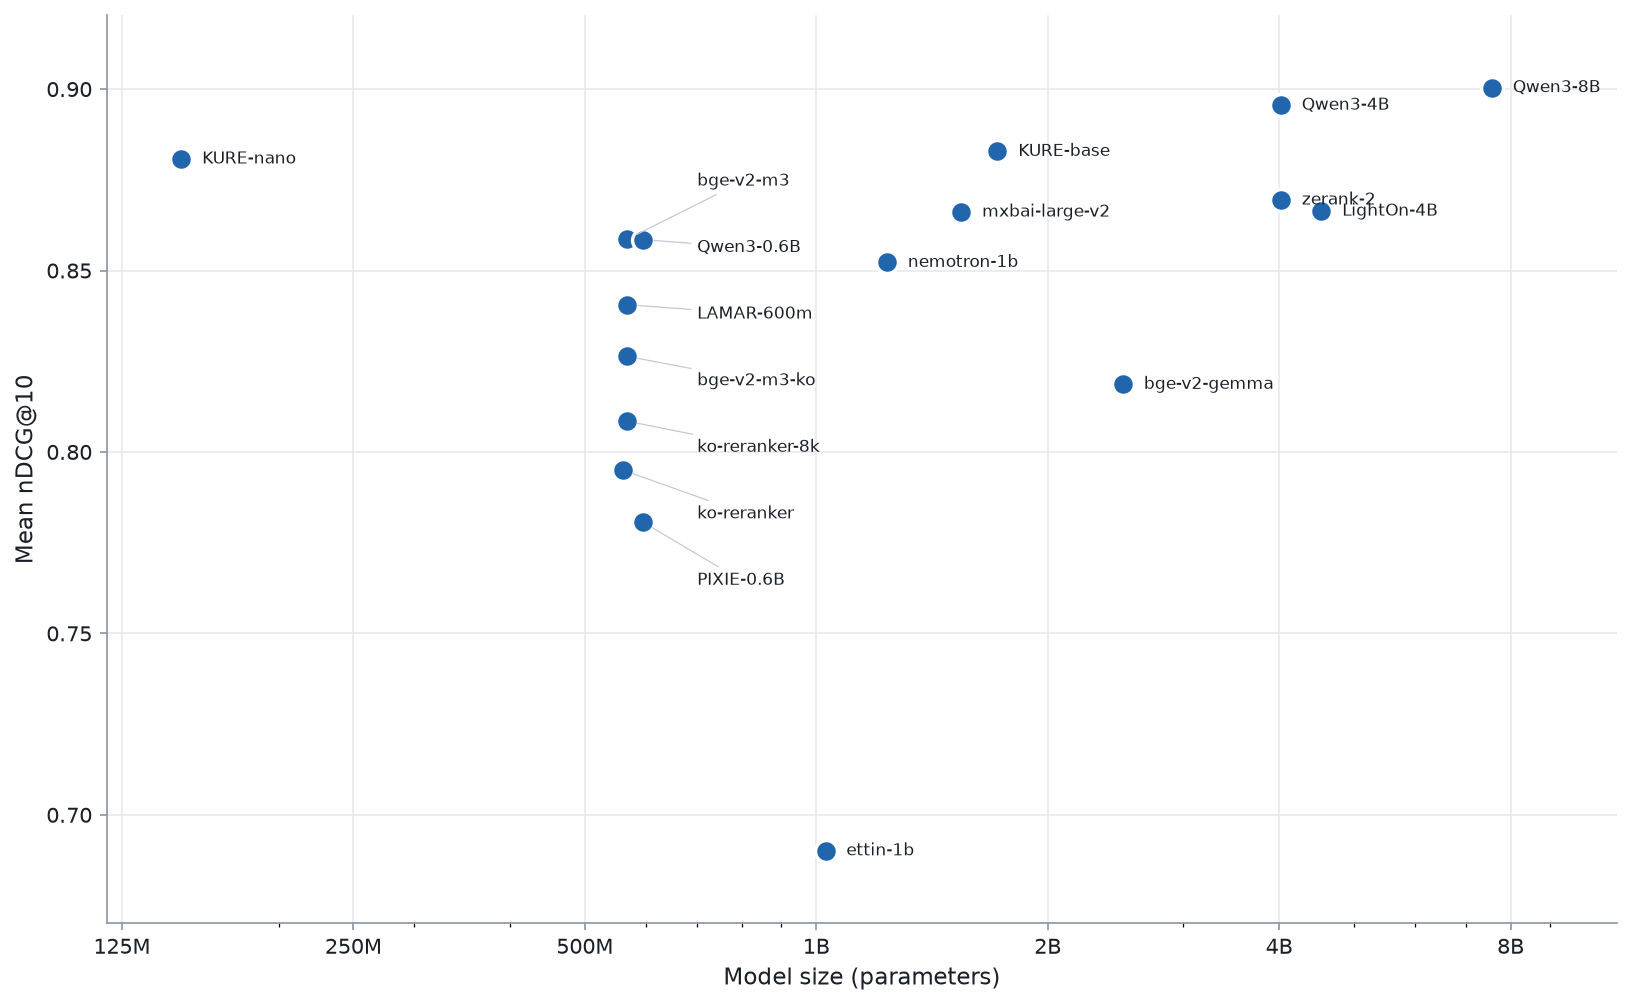
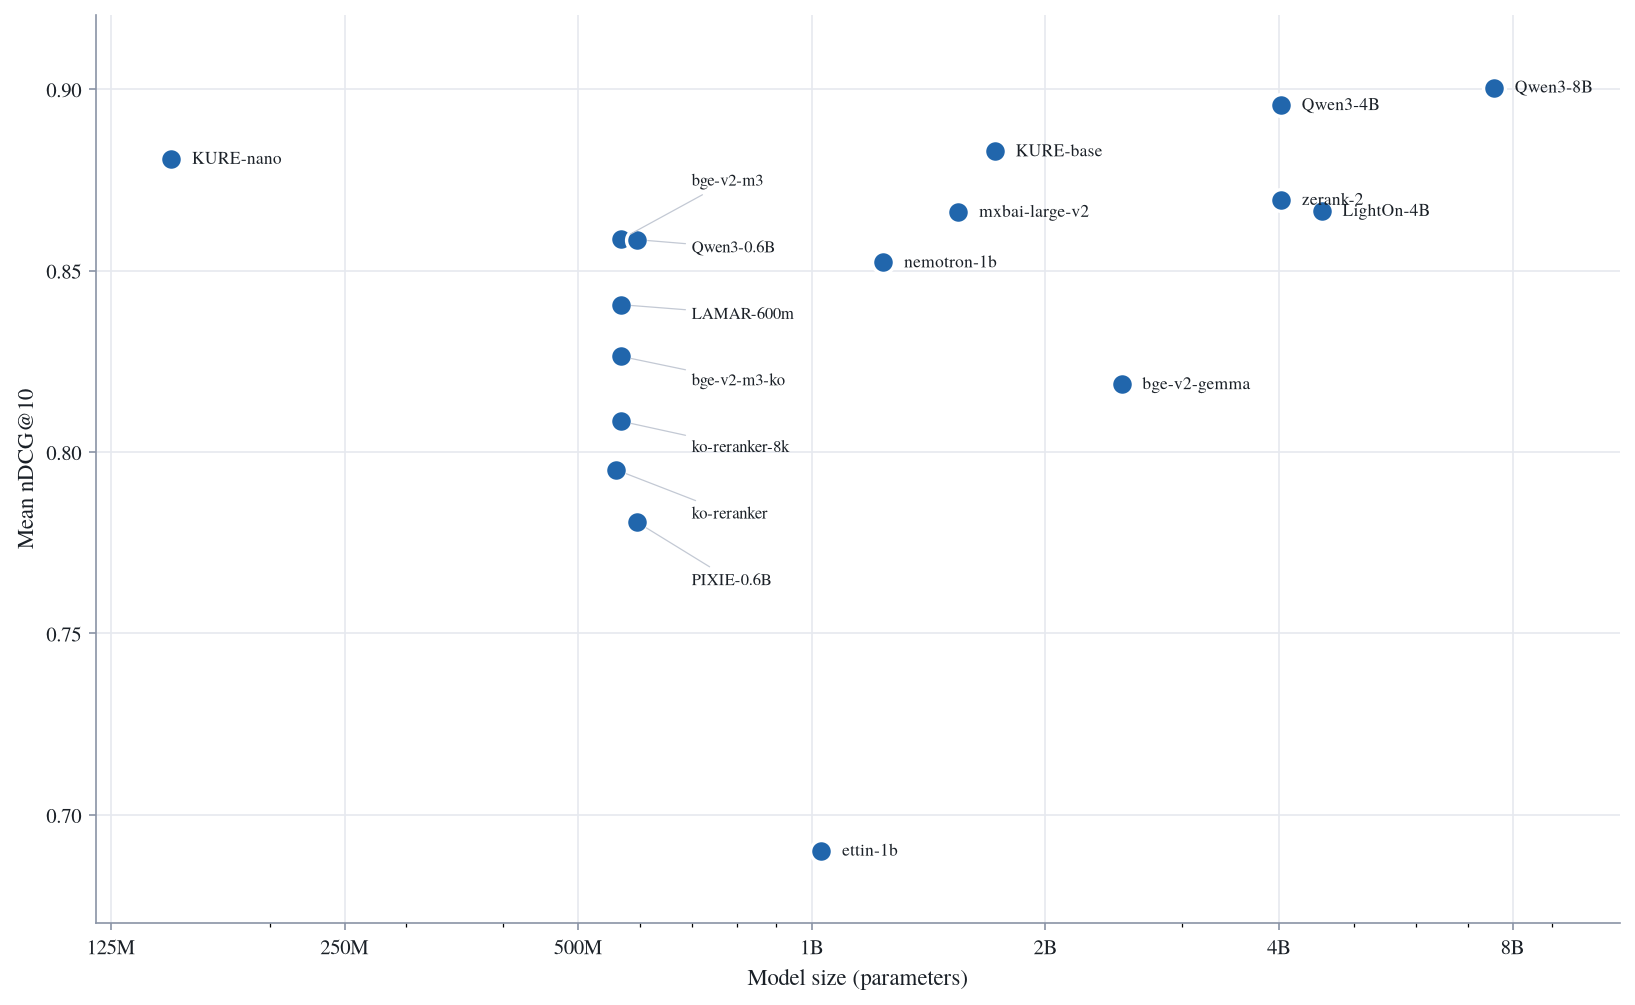
feat(plot): add a mean-PPS vs. nDCG@10 scatter and render both plots in Times
eval/plot_pps_vs_ndcg.py plots 9-subset mean PPS (log x) against 9-subset mean
nDCG@10. Each label shows the model's short name plus its parameter count in
small grey text, and the dot color marks the size bin (<0.5B / 0.5-1B / 1-3B /
>=3B) from a low-saturation palette that stays distinguishable under CVD.

Both plots now use a Times New Roman family font, falling back to TeX Gyre
Termes / Nimbus Roman where Times is not installed. mean_pps takes an optional
task list so the plot can average over all 9 subsets while the leaderboard keeps
its MLDR-excluded 8-task default.

diff --git a/eval/plot_pps_vs_ndcg.py b/eval/plot_pps_vs_ndcg.py
@@ -1,0 +1,140 @@
+"""추론 처리량(9-subset mean PPS) vs 성능(공식 MTEB(kor, v2) 9-subset mean NDCG@10) 산점도.
+
+- x축: 9개 공식 subset 평균 PPS (log scale)
+- y축: 9개 공식 subset 평균 NDCG@10 (9개 전부 완료한 모델만 → jina-reranker-v3/v3.5 자동 제외)
+- 점 색: 모델 크기 구간(<0.5B / 0.5–1B / 1–3B / ≥3B), 라벨: 축약명 + 작은 글씨로 파라미터 수(B, 소수 첫째 자리)
+
+matplotlib 은 코어 의존성이 아니므로 임시 주입으로 실행:
+  uv run --with matplotlib python eval/plot_pps_vs_ndcg.py
+산출물: assets/pps_vs_ndcg9.png
+"""
+from pathlib import Path
+
+import matplotlib
+matplotlib.use("Agg")
+import matplotlib.pyplot as plt
+from matplotlib.ticker import FixedLocator, FixedFormatter, NullFormatter
+
+from stage2_results import collect, mean_pps, _mean_over, MODEL_SIZES, TASKS
+
+V2_ROOT = Path(__file__).resolve().parents[1]
+OUT = V2_ROOT / "assets" / "pps_vs_ndcg9.png"
+
+INK = "#1a2027"
+MUTED = "#8a94a6"
+# Times New Roman 계열 — 미설치 환경은 metric 호환 대체 폰트(TeX Gyre Termes, Nimbus Roman) 로 fallback.
+TIMES = ["Times New Roman", "TeX Gyre Termes", "Nimbus Roman", "STIXGeneral"]
+
+# 모델 크기 구간별 색 (상한 B, 범례명, 색). 저채도 4색, all-pairs CVD·일반 시각 구분 검증 통과.
+SIZE_BINS = [
+    (0.5, "< 0.5B", "#b8646e"),
+    (1.0, "0.5–1B", "#6f9fc2"),
+    (3.0, "1–3B", "#d6a55c"),
+    (float("inf"), "≥ 3B", "#4d4a7a"),
+]
+
+# 라벨용 축약명 (충돌·오버플로 완화). 없으면 basename.
+SHORT = {
+    "tomaarsen/Qwen3-Reranker-8B-seq-cls": "Qwen3-8B",
+    "tomaarsen/Qwen3-Reranker-4B-seq-cls": "Qwen3-4B",
+    "tomaarsen/Qwen3-Reranker-0.6B-seq-cls": "Qwen3-0.6B",
+    "zeroentropy/zerank-2-reranker": "zerank-2",
+    "lightonai/LightOn-rerank-PW-4B": "LightOn-4B",
+    "mixedbread-ai/mxbai-rerank-large-v2": "mxbai-large-v2",
+    "BAAI/bge-reranker-v2-m3": "bge-v2-m3",
+    "nvidia/llama-nemotron-rerank-1b-v2": "nemotron-1b",
+    "nlpai-lab/LAMAR-600m": "LAMAR-600m",
+    "dragonkue/bge-reranker-v2-m3-ko": "bge-v2-m3-ko",
+    "BAAI/bge-reranker-v2-gemma": "bge-v2-gemma",
+    "upskyy/ko-reranker-8k": "ko-reranker-8k",
+    "Dongjin-kr/ko-reranker": "ko-reranker",
+    "telepix/PIXIE-Spell-Reranker-Preview-0.6B": "PIXIE-0.6B",
+    "cross-encoder/ettin-reranker-1b-v1": "ettin-1b",
+    "nlpai-lab/KURE-Reranker-nano": "KURE-nano",
+    "nlpai-lab/KURE-Reranker-base": "KURE-base",
+}
+
+# 점이 겹치는 모델의 라벨 오프셋(points). 없으면 점 오른쪽. dx<0 이면 점 왼쪽에 우측 정렬.
+OFFSET = {
+    "Qwen3-8B": (10, 5),
+    "mxbai-large-v2": (10, 6),
+    "LightOn-4B": (10, -5),
+    "Qwen3-0.6B": (10, 5),
+    "PIXIE-0.6B": (10, -5),
+    "bge-v2-m3": (-10, 0),
+    "LAMAR-600m": (10, 0),
+    "bge-v2-m3-ko": (-10, 0),
+    "ko-reranker-8k": (-10, 0),
+}
+
+
+def size_color(billions):
+    return next(color for upper, _, color in SIZE_BINS if billions < upper)
+
+
+def label(ax, x, y, name, size, dx, dy):
+    """'name (size)' — size 는 작고 흐린 글씨. dx<0 이면 점 왼쪽에 우측 정렬."""
+    left = dx < 0
+    name_style = {"fontsize": 10, "color": INK}
+    size_style = {"fontsize": 8, "color": MUTED}
+    first_text, first_style = (f"({size})", size_style) if left else (name, name_style)
+    second_text, second_style = (name, name_style) if left else (f"({size})", size_style)
+    first = ax.annotate(first_text, (x, y), textcoords="offset points", xytext=(dx, dy),
+                        ha="right" if left else "left", va="center", **first_style)
+    ax.annotate(second_text, xy=(0 if left else 1, 0), xycoords=first,
+                textcoords="offset points", xytext=(-3 if left else 3, 0),
+                ha="right" if left else "left", va="bottom", **second_style)
+
+
+def main():
+    data = collect()
+    pts = []
+    for model in data:
+        r = _mean_over(data, model, TASKS)
+        pps = mean_pps(data, model, TASKS)
+        if r and pps is not None:
+            pts.append((pps, r[2], model))
+
+    plt.rcParams.update({"font.family": "serif", "font.serif": TIMES, "mathtext.fontset": "stix"})
+    fig, ax = plt.subplots(figsize=(11, 6.8), dpi=150)
+    xs = [p[0] for p in pts]
+    ys = [p[1] for p in pts]
+
+    for upper, name, color in SIZE_BINS:
+        sel = [(x, y) for x, y, m in pts if size_color(MODEL_SIZES[m] / 1e9) == color]
+        ax.scatter([x for x, _ in sel], [y for _, y in sel], s=110, color=color,
+                   edgecolor="white", linewidth=1.6, zorder=3, label=name)
+
+    for x, y, model in pts:
+        name = SHORT.get(model, model.split("/")[-1])
+        dx, dy = OFFSET.get(name, (10, 0))
+        label(ax, x, y, name, f"{MODEL_SIZES[model] / 1e9:.1f}B", dx, dy)
+
+    ax.set_xscale("log")
+    ticks = [10, 20, 50, 100, 200, 500, 1000]
+    ax.xaxis.set_major_locator(FixedLocator(ticks))
+    ax.xaxis.set_major_formatter(FixedFormatter([f"{t:g}" for t in ticks]))
+    ax.xaxis.set_minor_formatter(NullFormatter())
+    ax.set_xlim(min(xs) * 0.8, max(xs) * 1.9)
+    ax.set_ylim(min(ys) - 0.02, max(ys) + 0.02)
+
+    ax.set_xlabel("Mean PPS (pairs/s)", fontsize=12, color=INK)
+    ax.set_ylabel("Mean nDCG@10", fontsize=12, color=INK)
+    ax.legend(title="Model size", loc="lower right", frameon=False, fontsize=10,
+              title_fontsize=10, labelcolor=INK)
+
+    ax.grid(True, which="major", color="#e6e9ef", linewidth=0.8, zorder=0)
+    for s in ("top", "right"):
+        ax.spines[s].set_visible(False)
+    for s in ("left", "bottom"):
+        ax.spines[s].set_color(MUTED)
+    ax.tick_params(colors=MUTED, labelcolor=INK)
+
+    fig.tight_layout()
+    OUT.parent.mkdir(parents=True, exist_ok=True)
+    fig.savefig(OUT, bbox_inches="tight", facecolor="white")
+    print(f"wrote {OUT} ({len(pts)} models)")
+
+
+if __name__ == "__main__":
+    main()

diff --git a/eval/stage2_results.py b/eval/stage2_results.py
@@ -46,7 +46,7 @@ PPS_TASKS = [t for t in TASKS if t != MLDR]
 PPS_NOTE = ("**8-task PPS** = 추론 처리량(query–document pairs/s), MLDR 제외 8 subset 평균. RTX A6000 1장, "
             "bf16 + flash_attention_2, `--speed` 로 측정 (측정 방식은 *Methodology* 참고).")
 
-# 모델 파라미터 수(실측: 캐시된 safetensors 헤더의 tensor shape 합). 표 Params 열·산점도 x축에 사용.
+# 모델 파라미터 수(실측: 캐시된 safetensors 헤더의 tensor shape 합). 표 Params 열·산점도(크기 x축, PPS 그림 라벨·색)에 사용.
 MODEL_SIZES = {
     "tomaarsen/Qwen3-Reranker-8B-seq-cls": 7_567_315_968,
     "tomaarsen/Qwen3-Reranker-4B-seq-cls": 4_021_787_136,
@@ -91,7 +91,7 @@ def _mean_over(data, model, tasks):
     return v1 / n, v5 / n, v10 / n
 
 
-def mean_pps(data, model):
-    """PPS_TASKS 전부에 PPS 가 있으면 평균, 하나라도 결측이면 None."""
-    vals = [(data[model].get(t) or {}).get("pps") for t in PPS_TASKS]
+def mean_pps(data, model, tasks=PPS_TASKS):
+    """tasks(기본 MLDR 제외 8개) 전부에 PPS 가 있으면 평균, 하나라도 결측이면 None."""
+    vals = [(data[model].get(t) or {}).get("pps") for t in tasks]
     return None if any(v is None for v in vals) else sum(vals) / len(vals)

diff --git a/eval/plot_size_vs_ndcg.py b/eval/plot_size_vs_ndcg.py
@@ -16,6 +16,7 @@ matplotlib.use("Agg")
 import matplotlib.pyplot as plt
 from matplotlib.ticker import FixedLocator, FixedFormatter
 
+from plot_pps_vs_ndcg import TIMES
 from stage2_results import collect, MODEL_SIZES, _mean_over, TASKS
 
 V2_ROOT = Path(__file__).resolve().parents[1]
@@ -62,6 +63,7 @@ def main():
             pts.append((MODEL_SIZES[model] / 1e9, r[2], short(model)))
     pts.sort()
 
+    plt.rcParams.update({"font.family": "serif", "font.serif": TIMES, "mathtext.fontset": "stix"})
     fig, ax = plt.subplots(figsize=(11, 6.8), dpi=150)
     xs = [p[0] for p in pts]
     ys = [p[1] for p in pts]
